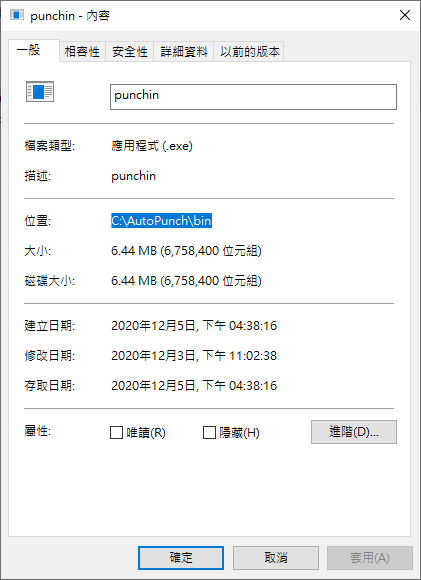
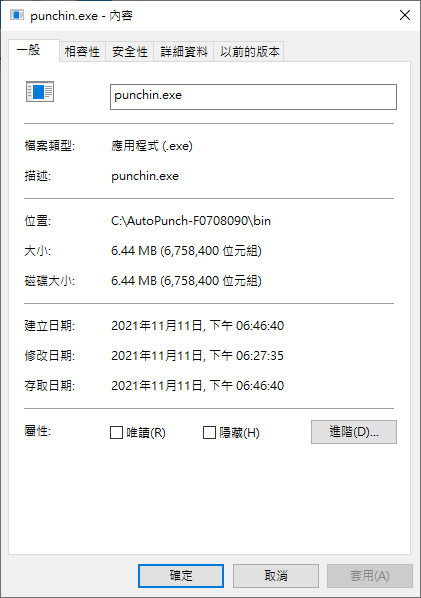
Modify: renew README file;

diff --git a/README.md b/README.md
@@ -28,6 +28,9 @@
 下載完成後解壓縮檔案到想要存放的目錄(這裡以直接放在C:\目錄下為例)
 ![1](https://github.com/vincent87720/AutoPunch/blob/master/assets/img/1.png?raw=true)
 
+更改資料夾名稱為AutoPunch加上學號，例如:AutoPunch-F0708090
+![14](https://github.com/vincent87720/AutoPunch/blob/master/assets/img/14.png?raw=true)
+
 ## 設定
 
 ### 設定帳號密碼
@@ -56,9 +59,26 @@
 
 ![4](https://github.com/vincent87720/AutoPunch/blob/master/assets/img/4.png?raw=true)
 
+### 調整使用者設定
+要建立工作之前，必須先將使用者調整成本機帳戶才可以順利匯入工作
+
+點選一般>安全性選項>變更使用者或群組
+![10](https://github.com/vincent87720/AutoPunch/blob/master/assets/img/10.png?raw=true)
+
+點選進階
+![11](https://github.com/vincent87720/AutoPunch/blob/master/assets/img/11.png?raw=true)
+
+點選立即尋找後，在下方列表選取目前的使用者帳戶，按下確定鍵
+![12](https://github.com/vincent87720/AutoPunch/blob/master/assets/img/12.png?raw=true)
+
+![13](https://github.com/vincent87720/AutoPunch/blob/master/assets/img/13.png?raw=true)
+
 ### 調整觸發排程
 點選**觸發程序**頁籤可以看到所有會觸發該工作的時間點，可點選新增或編輯現有的項目
 ![5](https://github.com/vincent87720/AutoPunch/blob/master/assets/img/5.png?raw=true)
+
+預設設定延遲工作最高可達5分鐘，即表示隨機在設定的時間開始往後五分鐘內執行，若要在確切時間執行請取消勾選此選項
+![15](https://github.com/vincent87720/AutoPunch/blob/master/assets/img/15.png?raw=true)
 
 ### 設定執行檔位置
 #### 尋找開始位置
